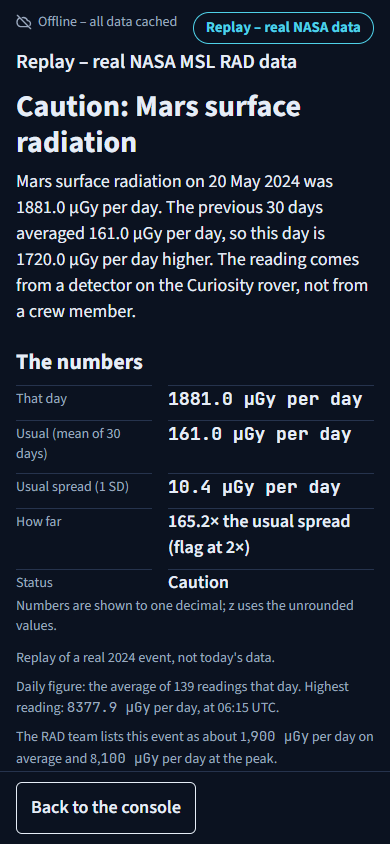
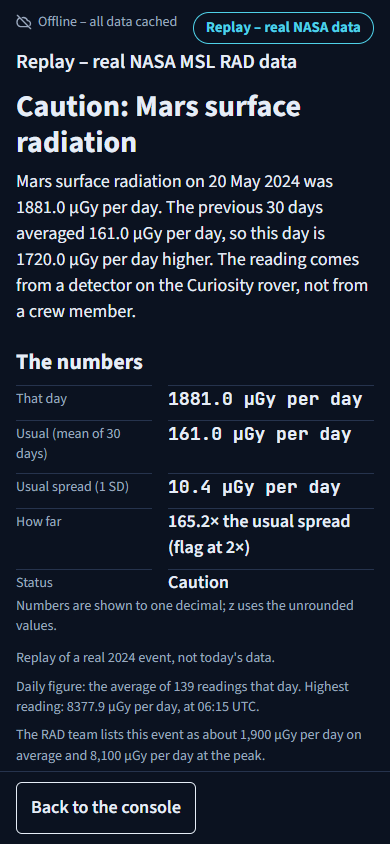
Final screen fixes: crew badge on one line; inline values in Source Sans 3 with tabular figures

Changed region(s): [[0.0308, 0.8318, 0.9538, 0.9242]]

diff --git a/web/index.html b/web/index.html
@@ -64,7 +64,8 @@ a { color: inherit; text-underline-offset: 3px; }
   border: 1.5px solid var(--ink); border-radius: 6px; background: none; color: var(--ink);
   font-weight: 600; cursor: pointer;
 }
-.n { font-family: var(--mono); white-space: nowrap; } /* a number and its unit inside a sentence (app.js monoNums) */
+.n { font-variant-numeric: tabular-nums; white-space: nowrap; } /* a number and its unit inside a sentence (app.js monoNums): the sentence's own font, tabular figures */
+#b1-reading .n, #b1-level .n { font-family: var(--mono); } /* the solar alert readouts stand alone: number font */
 .text-button.back { display: flex; align-items: center; gap: 12px; color: var(--ink); font-size: 18px; }
 .back::before { content: ""; width: 9px; height: 9px; margin-left: 4px; border-left: 2px solid currentColor; border-bottom: 2px solid currentColor; transform: rotate(45deg); }
 .text-button {
@@ -281,7 +282,7 @@ fieldset { border: 0; padding: 0; margin: 28px 0 0; min-width: 0; }
 .crew-row.watch { border-left-style: dotted; }
 .crew-row strong { display: block; font-size: 22px; }
 .crew-row .secondary { width: auto; margin: 0; min-height: 44px; padding: 8px 20px; }
-.crew-count { display: inline-block; margin-top: 4px; padding: 0 12px; border: 1.5px solid var(--strong); border-radius: 999px; font-family: var(--mono); font-size: 16px; }
+.crew-count { display: inline-block; margin-top: 4px; padding: 0 12px; border: 1.5px solid var(--strong); border-radius: 999px; font-family: var(--mono); font-size: 16px; white-space: nowrap; flex-shrink: 0; }
 .flagged .crew-count { border-color: var(--flag); color: var(--flag); }
 .crew-flag > span { display: block; }
 .crew-rail { padding: 16px 20px; border: 1px solid var(--card-border); border-radius: 12px; background: var(--card); }
@@ -289,7 +290,7 @@ fieldset { border: 0; padding: 0; margin: 28px 0 0; min-width: 0; }
 .crew-rail .message { margin: 12px 0; }
 .crew-rail .message p:first-child { font-weight: 700; }
 .crew-rail .message p:last-child { margin-bottom: 0; }
-@media (min-width: 700px) { .crew-row { grid-template-columns: 200px minmax(0, 1fr) auto; align-items: center; } }
+@media (min-width: 700px) { .crew-row { grid-template-columns: minmax(200px, max-content) minmax(0, 1fr) auto; align-items: center; } } /* the name column grows to fit its badge */
 @media (min-width: 900px) { .crew-grid { grid-template-columns: minmax(0, 1fr) 440px; align-items: start; } }
 </style>
 </head>

diff --git a/tests/test_web.py b/tests/test_web.py
@@ -464,3 +464,15 @@ def test_data_sources_panel_matches_the_readme_table_and_ends_with_not_covered()
     assert not_covered.startswith("Not covered: blood pressure and blood sugar. ")
     assert text(panel[panel.rindex("<p"):]) == not_covered, "the not-covered line is the panel's last line"
     assert not [p for p in BLOCKED if p in text(panel).lower()]
+
+
+def test_inline_numbers_use_the_text_font_and_the_crew_badge_stays_on_one_line():
+    """13 Nov (Hrishin): a number inside a sentence is set in the sentence's own font with tabular figures; the
+    number font stays only where a value stands alone. The crew badge never wraps, and its column grows to fit it."""
+    html = Path("web/index.html").read_text(encoding="utf-8")
+    n_rule = re.search(r"^\.n \{([^}]*)\}", html, re.M).group(1)
+    assert "tabular-nums" in n_rule and "nowrap" in n_rule and "--mono" not in n_rule
+    assert "#b1-reading .n, #b1-level .n { font-family: var(--mono); }" in html
+    badge = re.search(r"^\.crew-count \{([^}]*)\}", html, re.M).group(1)
+    assert "white-space: nowrap" in badge and "flex-shrink: 0" in badge and "var(--mono)" in badge and "font-size: 16px" in badge
+    assert "grid-template-columns: minmax(200px, max-content) minmax(0, 1fr) auto" in html
